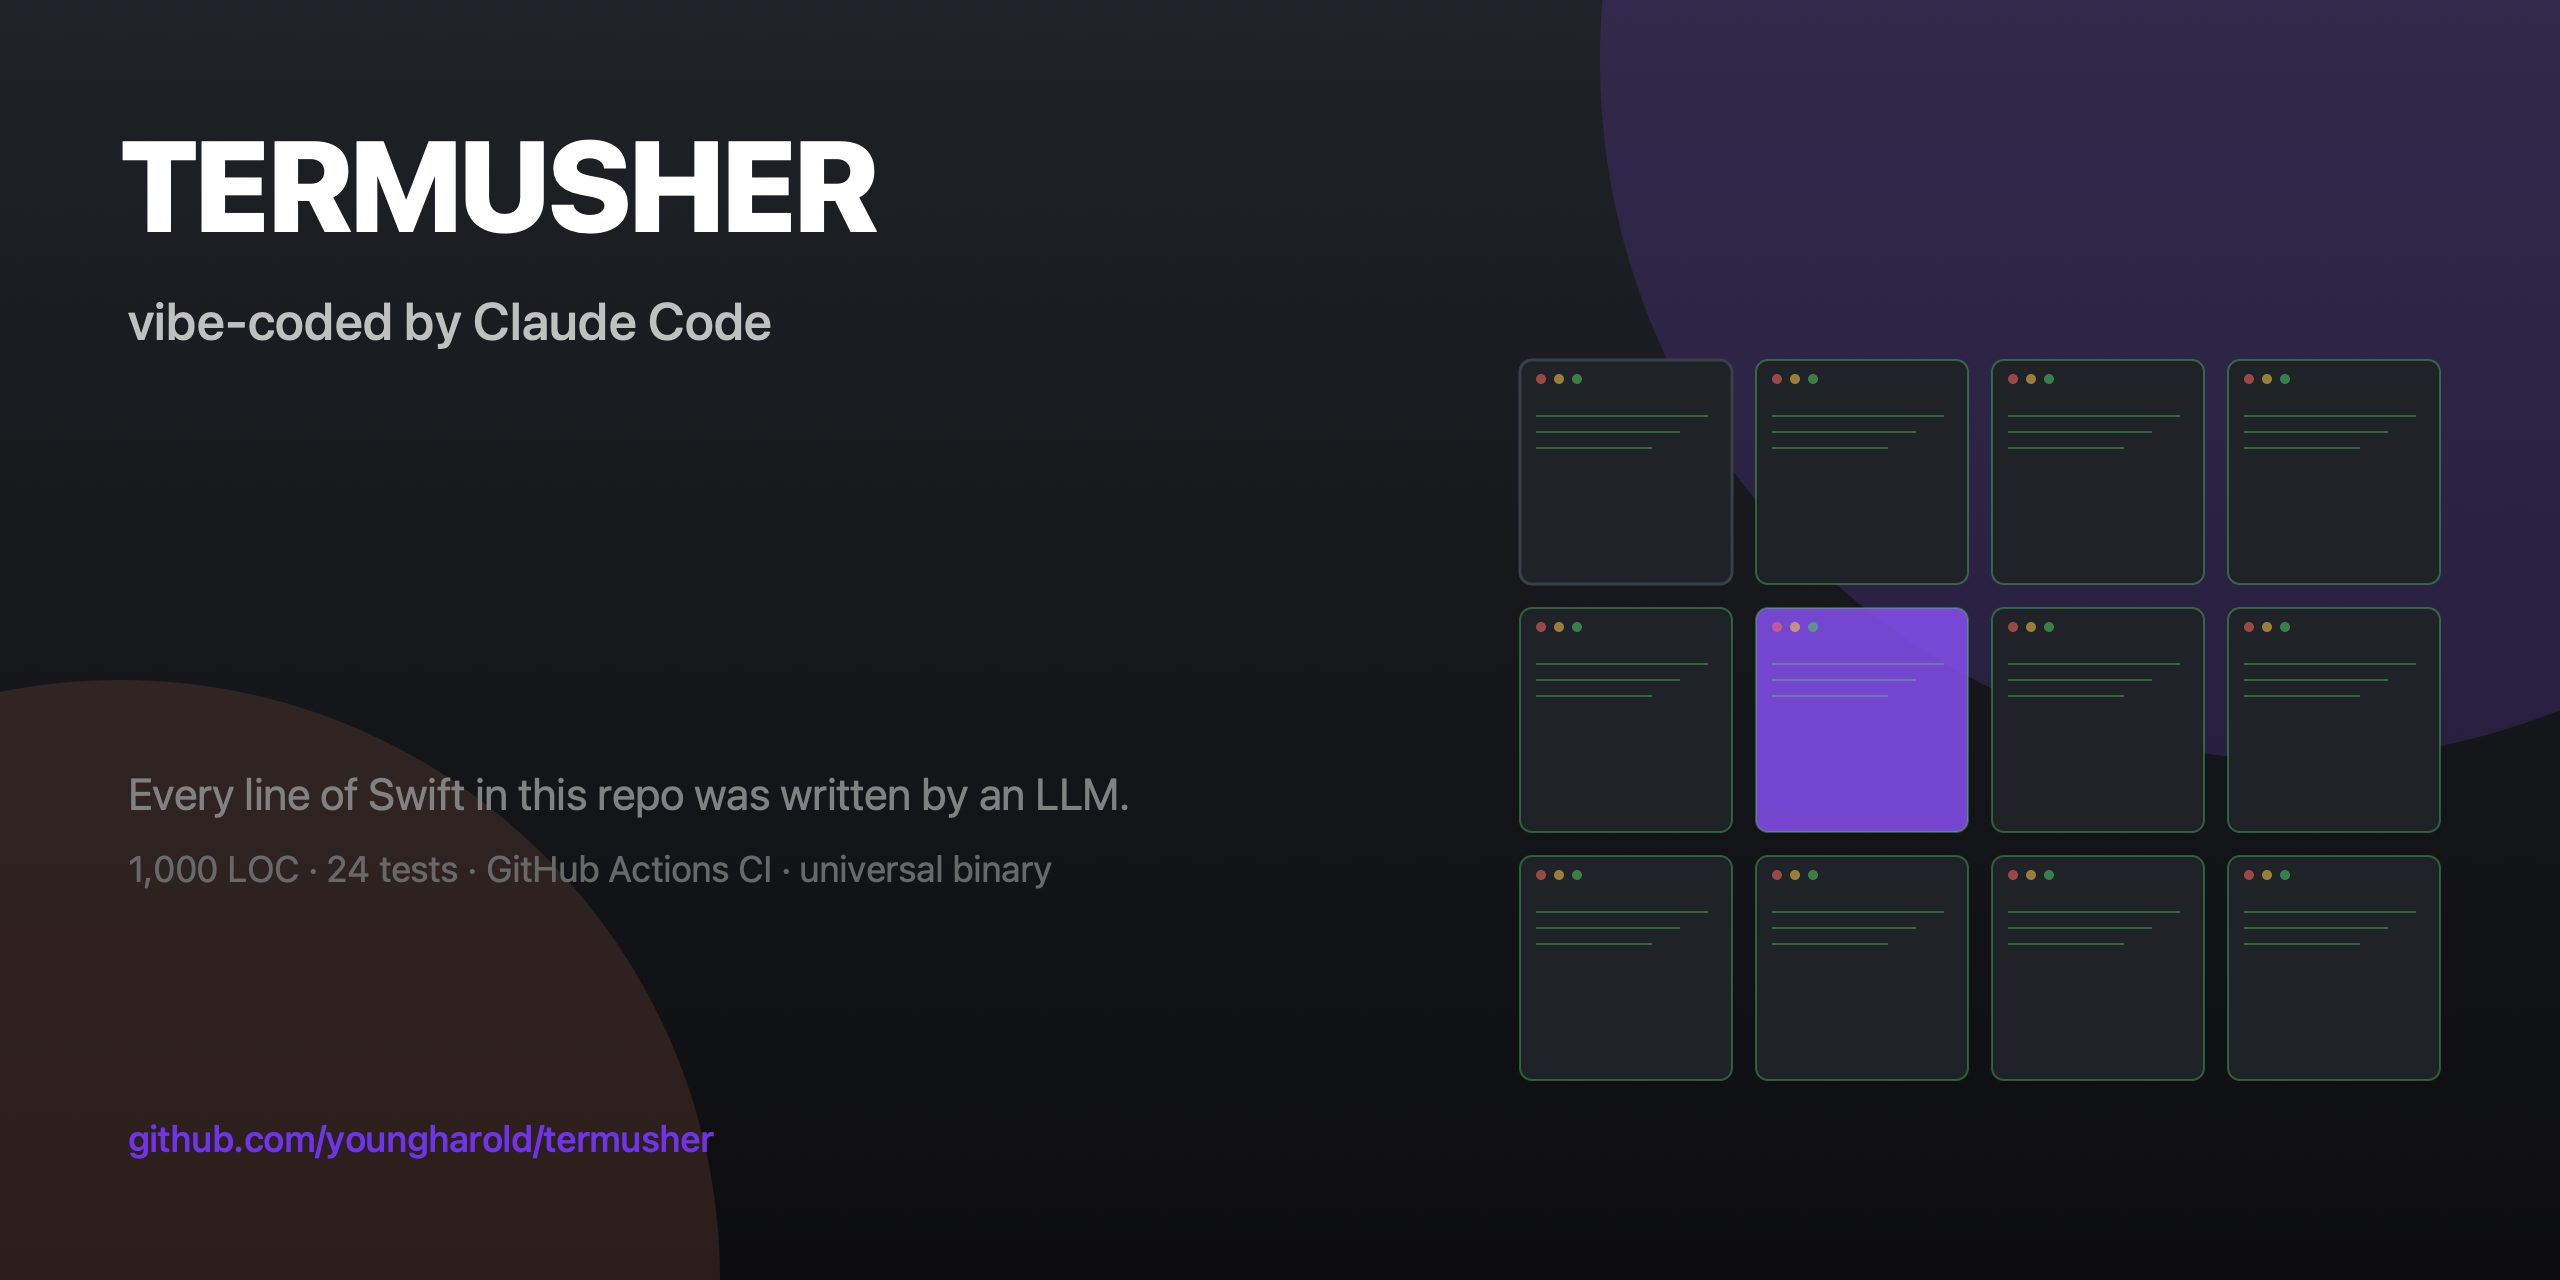
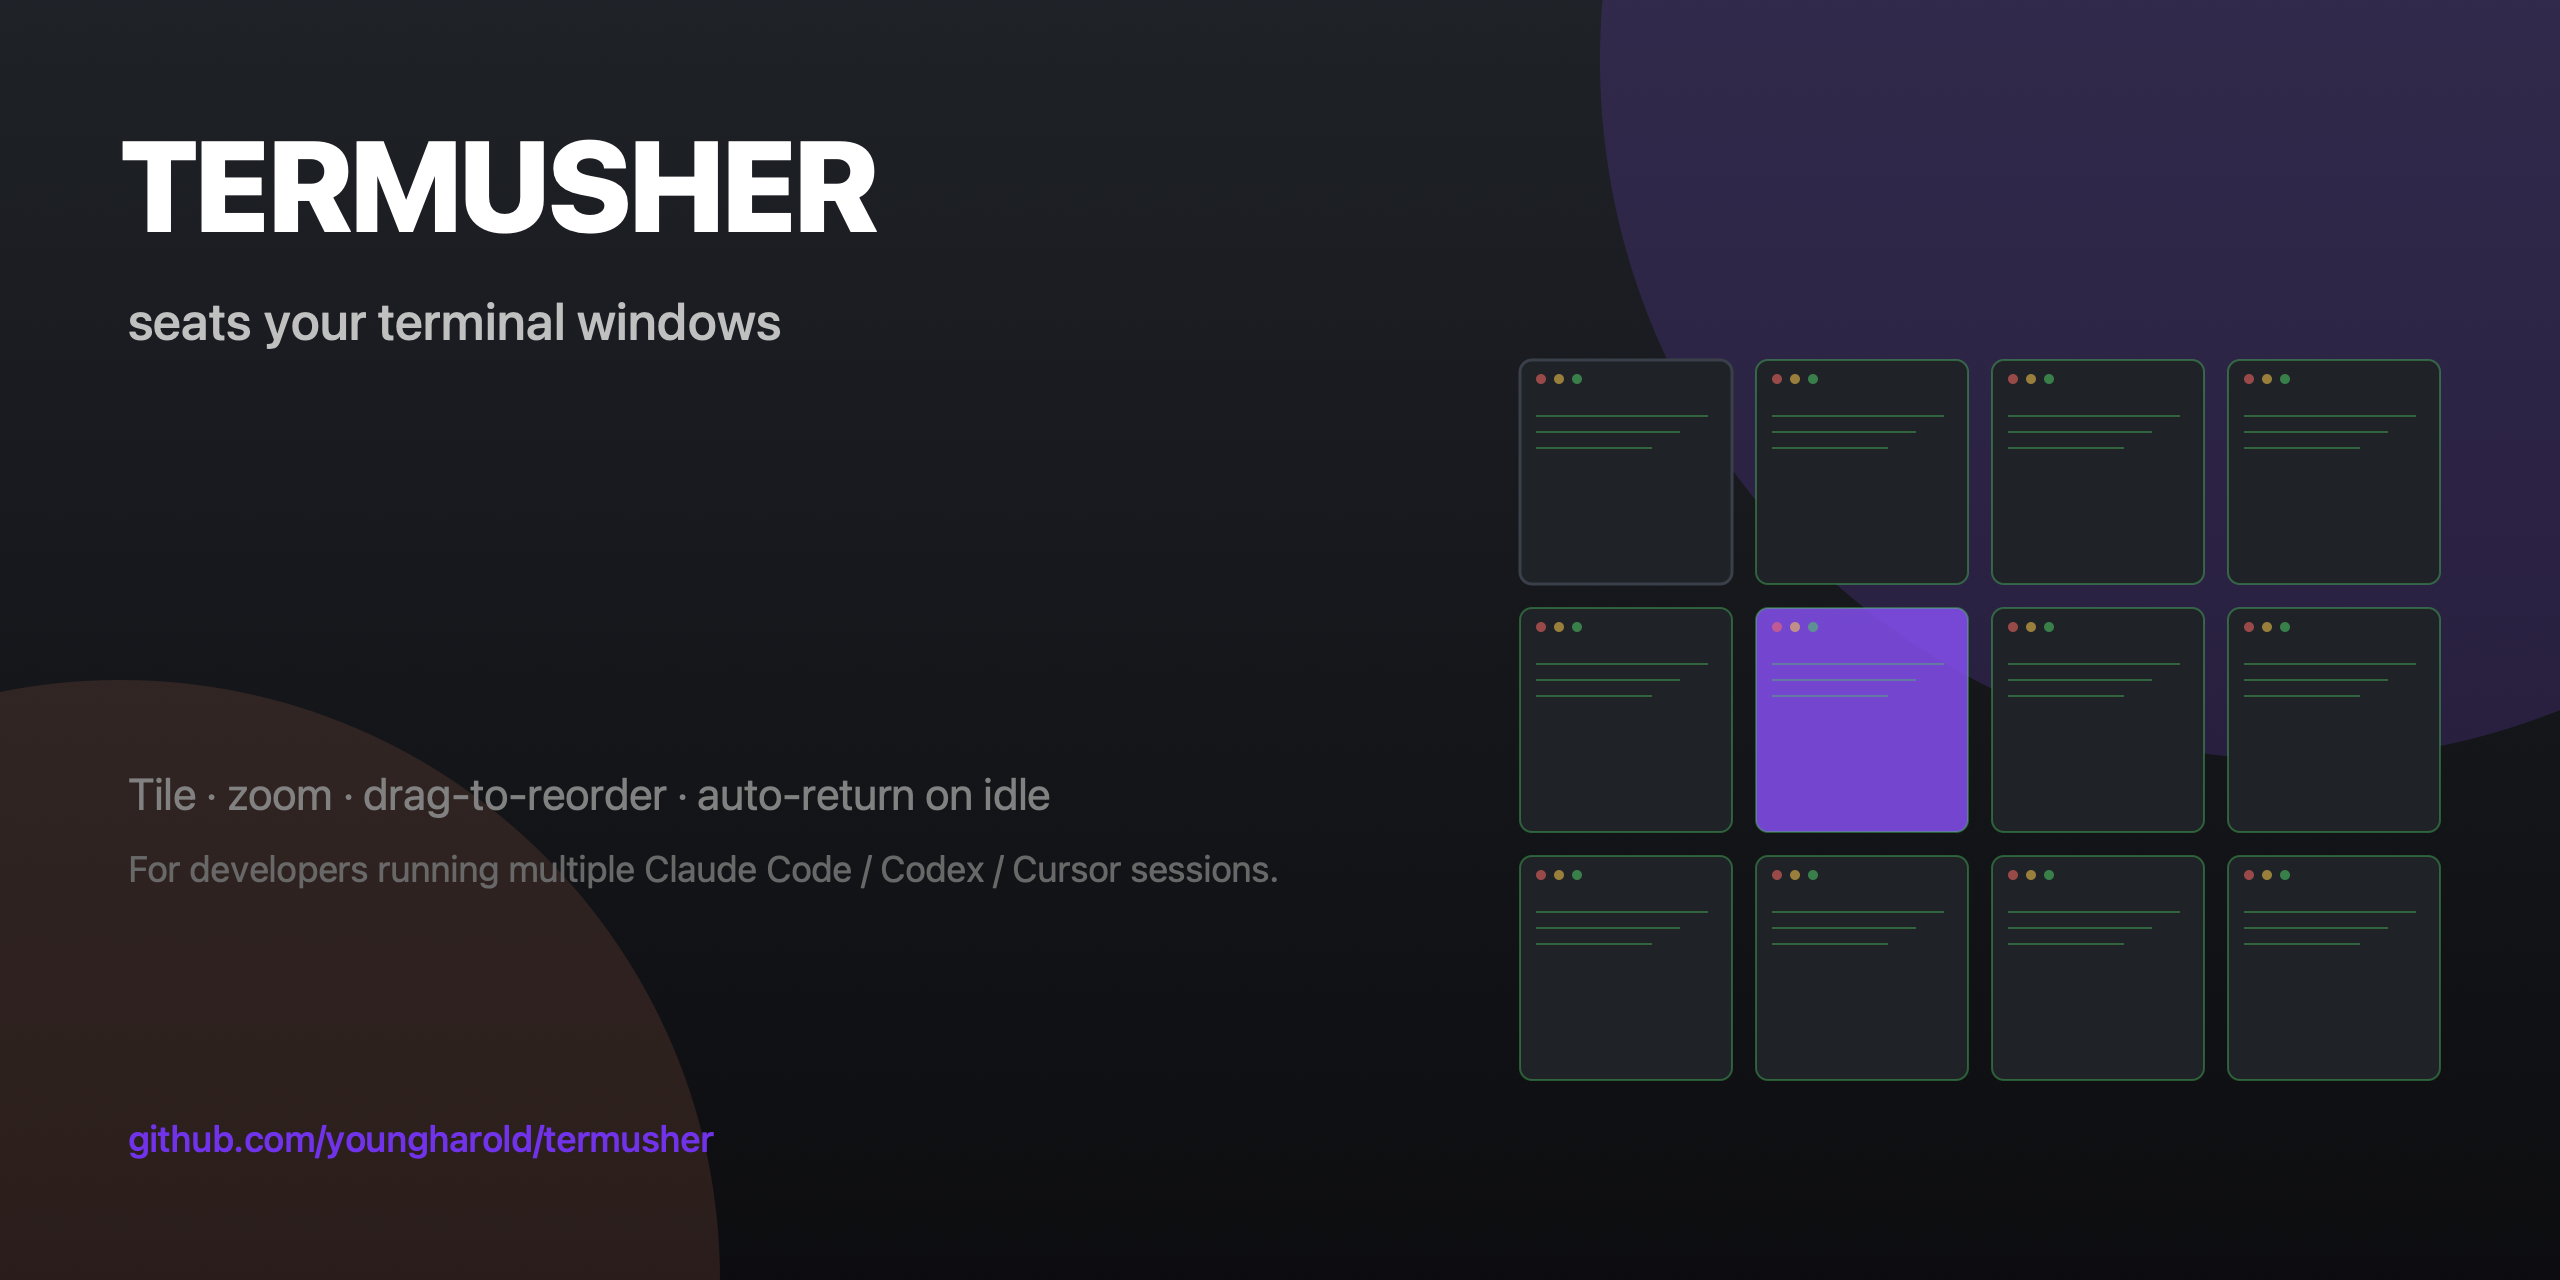
v0.4.1: drop AI-authorship branding from public artifacts
Pivot positioning: market TO the AI-CLI audience, not AS vibe-coded software.

- OG image: drop 'vibe-coded by Claude Code' subtitle and 'every line written by an
  LLM' caption. New subtitle 'seats your terminal windows' + audience line
  'For developers running multiple Claude Code / Codex / Cursor sessions.'
- README: remove 'Built with Claude Code' and 'Vibe Coded 100%' badges
- README: delete 'Built with AI - vibe coding case study' section
- README: lead with what the product is and who it's for, not how it was made
- GitHub description: drop authorship claim, lead with audience
- Topics pruned: removed authorship tags (vibe-coding, ai-generated, agentic-coding,
  ai-assisted, ai-coding, llm). Added audience tags (cursor, ai-cli, llm-tooling,
  developer-tools, tile, tiling-window-manager)

Changed region(s): [[0.0312, 0.5938, 0.5, 0.6875], [0.0312, 0.2188, 0.3125, 0.2812]]

diff --git a/scripts/make-og-image.swift b/scripts/make-og-image.swift
@@ -117,15 +117,15 @@ draw("TERMUSHER",
      at: CGPoint(x: 60, y: H - 130),
      size: 64, color: .white, weight: .heavy, kern: -1.5)
 
-draw("vibe-coded by Claude Code",
+draw("seats your terminal windows",
      at: CGPoint(x: 64, y: H - 175),
      size: 26, color: NSColor(white: 0.78, alpha: 1.0), weight: .medium)
 
-draw("Every line of Swift in this repo was written by an LLM.",
+draw("Tile · zoom · drag-to-reorder · auto-return on idle",
      at: CGPoint(x: 64, y: 230),
      size: 22, color: NSColor(white: 0.55, alpha: 1.0))
 
-draw("1,000 LOC · 24 tests · GitHub Actions CI · universal binary",
+draw("For developers running multiple Claude Code / Codex / Cursor sessions.",
      at: CGPoint(x: 64, y: 195),
      size: 18, color: NSColor(white: 0.45, alpha: 1.0))
 

diff --git a/README.md b/README.md
@@ -1,26 +1,16 @@
 # TermUsher
 
-![TermUsher — vibe-coded by Claude Code](og-image.png)
+![TermUsher — macOS terminal window manager](og-image.png)
 
 [![Test](https://github.com/youngharold/termusher/actions/workflows/test.yml/badge.svg)](https://github.com/youngharold/termusher/actions/workflows/test.yml)
-[![Built with Claude Code](https://img.shields.io/badge/built_with-Claude_Code-D97757?labelColor=181818)](https://claude.com/claude-code)
-[![Vibe Coded](https://img.shields.io/badge/vibe_coded-100%25-7C3AED?labelColor=181818)](#built-with-ai--vibe-coding-case-study)
 
-> **A macOS menu bar app that tiles Terminal windows in a grid — vibe-coded end-to-end by [Claude Code](https://claude.com/claude-code).** Every line of Swift in this repo was written by an LLM from natural-language prompts. If you're researching what agentic AI coding can produce in a single session, this is one data point: 1,000+ lines of Swift, 24 unit tests, GitHub Actions CI, universal binary, no human-typed code.
+> **A macOS menu bar app that seats your terminal windows in a tidy grid.** Built for developers who keep many AI-CLI sessions open at once — Claude Code, Codex, Cursor, Aider, plain shells, you name it. When you're juggling a dozen terminals chasing different agents and tasks, TermUsher tiles them so you can see them all, then quietly steps aside.
 
-Click a tile to zoom it for typing — others tuck into a sidebar strip. Drag to reorder. ⌘⌥G or hover the top edge of the screen returns to the even grid. Stop tiling to restore each window's original frame.
+Click a tile to zoom it for typing — others tuck into a sidebar strip. Drag a terminal's title bar to reorder. ⌘⌥G or hover the top edge of the screen returns to the even grid. The app can also auto-return after you press Enter and go idle (perfect for chat-style LLM workflows). Stop tiling and TermUsher restores each window to where it was before.
 
-## Built with AI — vibe coding case study
+**Built for the AI-CLI workflow.** If your day involves ten Claude Code sessions, three Codex tabs, and a Cursor in the corner, this is for you.
 
-This repository is a vibe-coding case study. The conversation that produced it started with:
-
-> _"Hey is there any application for mac that will originze all my open Claude CLI windows on the mac mini, if not lets get one created."_
-
-From there, [Claude Code](https://claude.com/claude-code) (Anthropic's CLI coding agent) wrote every Swift file, every test, every CI workflow, and every commit. The user steered with short natural-language directives ("add launch at login", "the hotkeys are hard to press", "auto-return to grid when idle"); the agent proposed designs, asked clarifying questions, ran tests, fixed regressions, and iterated through 17 versions across multiple QA review passes (architect / backend / QA expert subagents).
-
-**Keywords for the curious:** vibe coding · agentic coding · LLM-generated code · AI-assisted development · Claude Code · Anthropic · Codex · Swift · macOS · Accessibility API · menu bar app · Terminal window manager.
-
-**Tech stack:** Swift Package Manager · AppKit · `ApplicationServices` (AX API) · `ServiceManagement` (Launch at Login) · 24 XCTest cases · GitHub Actions on macos-14 · `swift build --arch arm64 --arch x86_64` (universal binary).
+**Tech stack:** Swift Package Manager · AppKit · `ApplicationServices` (Accessibility API) · `ServiceManagement` (Launch at Login) · 24 XCTest cases · GitHub Actions CI on macos-14 · `swift build --arch arm64 --arch x86_64` (universal binary).
 
 ## Build
 
